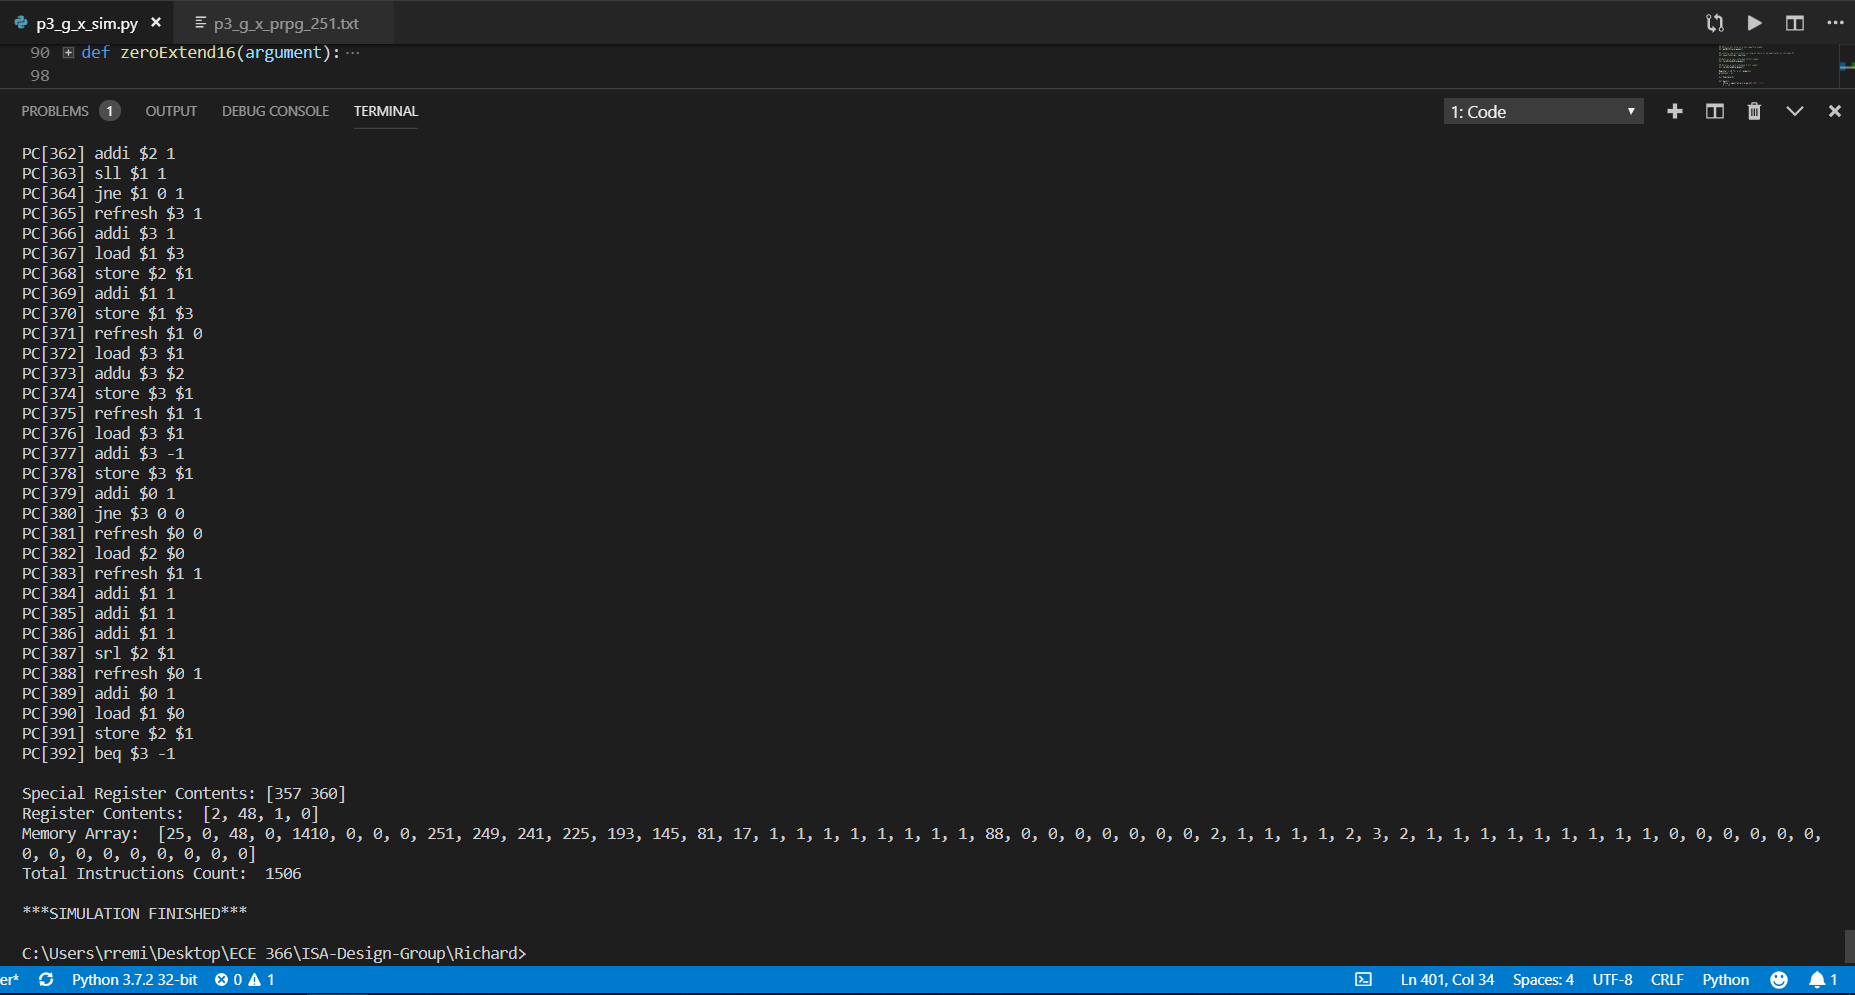
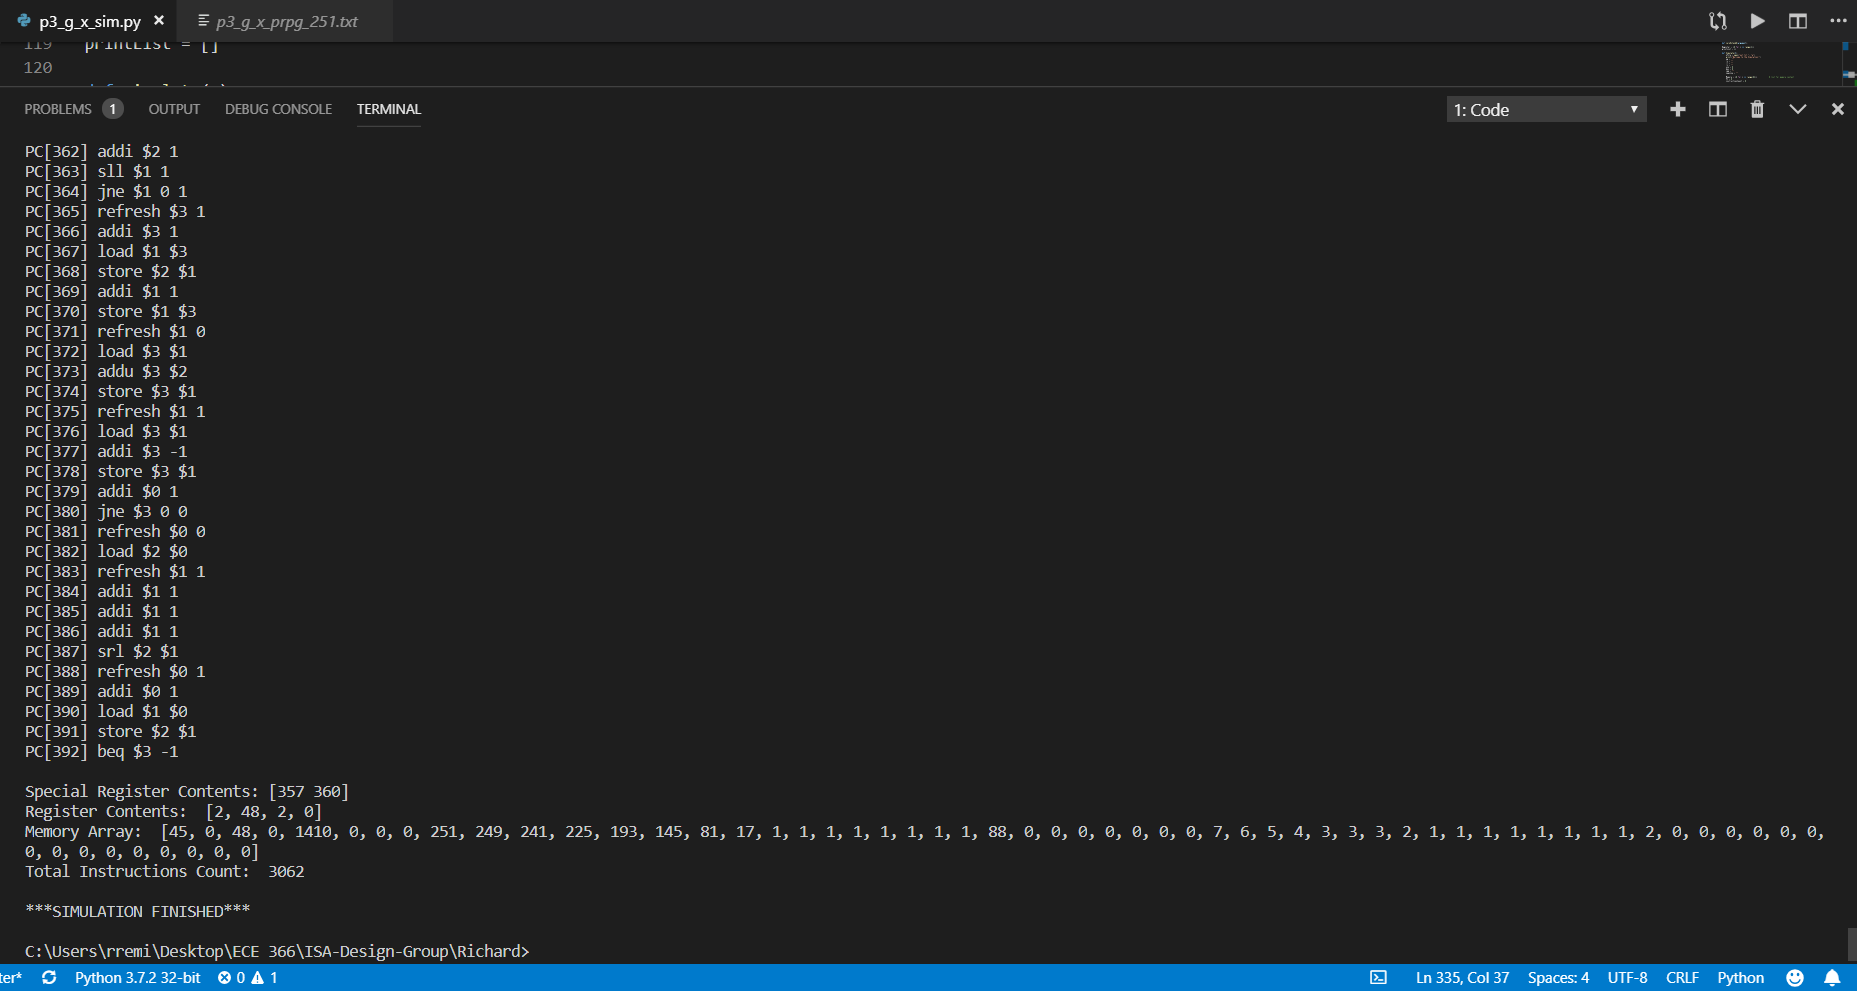
fixed minor sll bug

diff --git a/Richard/p3_g_x_sim.py b/Richard/p3_g_x_sim.py
@@ -67,6 +67,15 @@ def getTwosComp8(argument):
         val = int(argument, 2)
     return int(val)
 
+## Two's complement for 32 bits
+def getTwosComp32(argument):
+    if (argument[0] == '1'):
+        num = int(argument,2)
+        val = -2147483648 + (num - 2147483648)
+    else:
+        val = int(argument, 2)
+    return int(val)
+
 ## Returns bit size of a non-negative number
 def getBitSize(argument):
     sum = 0
@@ -315,15 +324,15 @@ def Simulate(I):
 
             imm1 = Register[int(rt,2)] << int(imm,2)
 
-            if (imm1 < -128):
+            if (imm1 < -2147483648):
                 hold = bin(imm1)[3:]
 
-                imm1 = getTwosComp8(hold)
+                imm1 = getTwosComp32(hold)
                 Register[int(rt,2)] = -(imm1)
 
-            elif (imm1 >= 128):
+            elif (imm1 >= 2147483648):
                 temp = bin(imm1)[2:]
-                imm1 = getTwosComp8(temp)
+                imm1 = getTwosComp32(temp)
                 Register[int(rt,2)] = imm1
 
             else:
